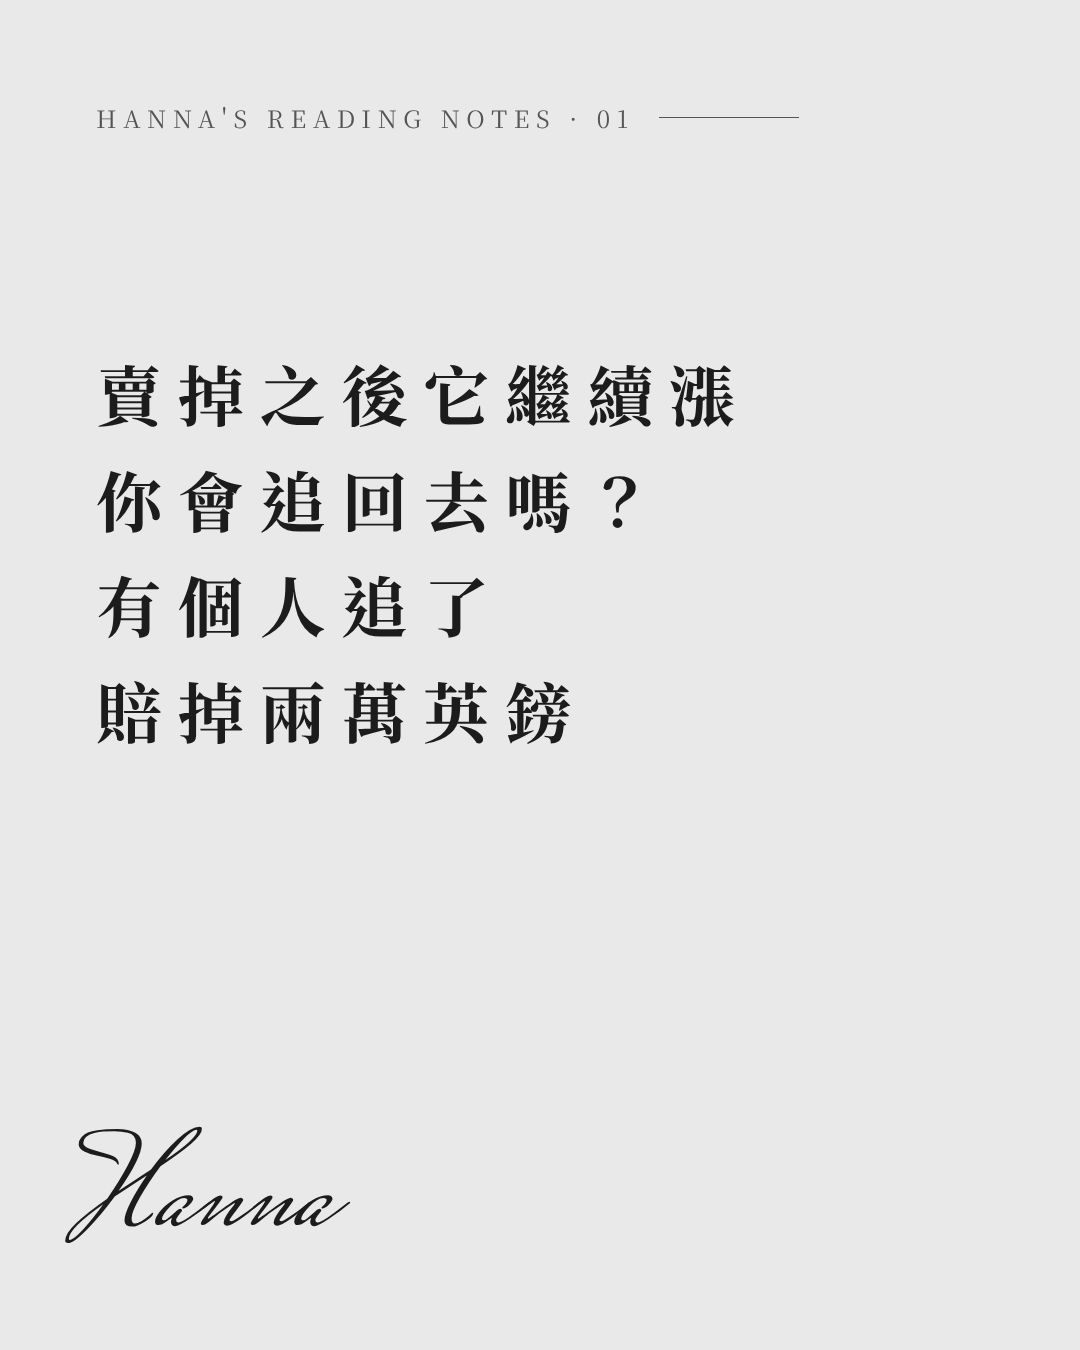
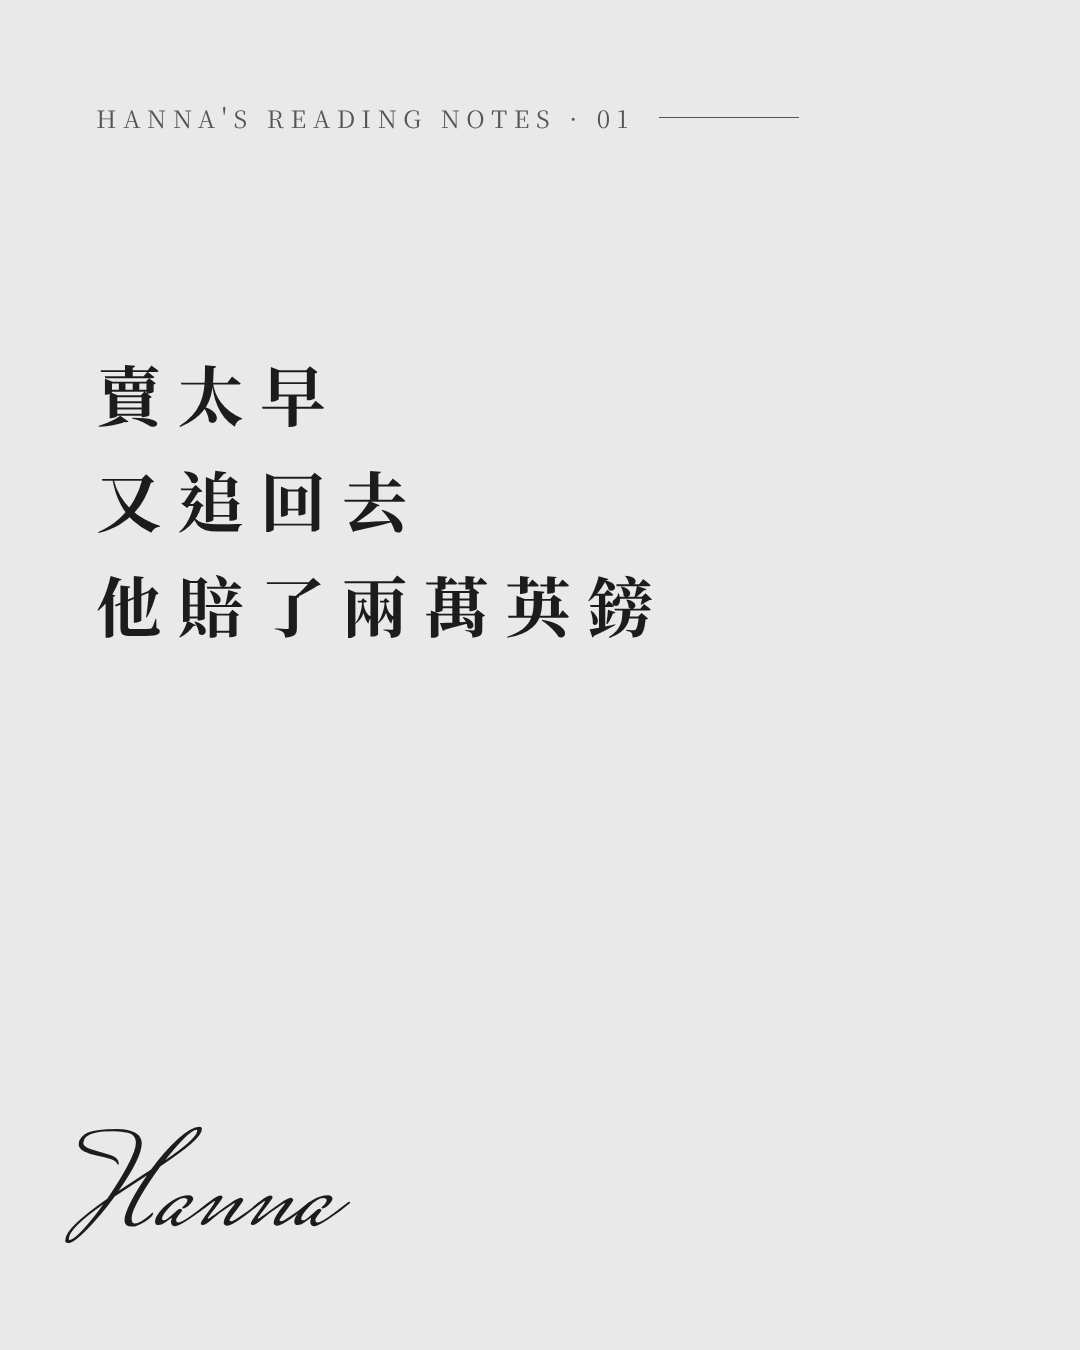
錯失恐懼輪播：封面再簡化
Claude-Session: https://claude.ai/code/session_01AFjNkU8XspDCm6xvkskaQj

diff --git a/IP經營/輪播_錯失恐懼/slides.html b/IP經營/輪播_錯失恐懼/slides.html
@@ -52,7 +52,7 @@
 <body>
 
 <section class="slide cover">
-  <h1>賣掉之後它繼續漲<br>你會追回去嗎？<br>有個人追了<br>賠掉兩萬英鎊</h1>
+  <h1>賣太早<br>又追回去<br>他賠了兩萬英鎊</h1>
   <div class="person"></div>
   <div class="sign">Hanna</div>
 </section>

diff --git a/IP經營/輪播貼文_錯失恐懼.md b/IP經營/輪播貼文_錯失恐懼.md
@@ -6,8 +6,8 @@
 
 ## 貼文說明文字（Caption）
 
-賣掉之後，它繼續漲，你會追回去嗎？
-有個人追了，最後賠掉大約 2 萬英鎊。
+賣太早，又追回去。
+有個人因為這樣，賠了大約 2 萬英鎊。
 
 1720 年，英國最熱門的股票是南海公司。
 半年內，股價從 100 多英鎊，
